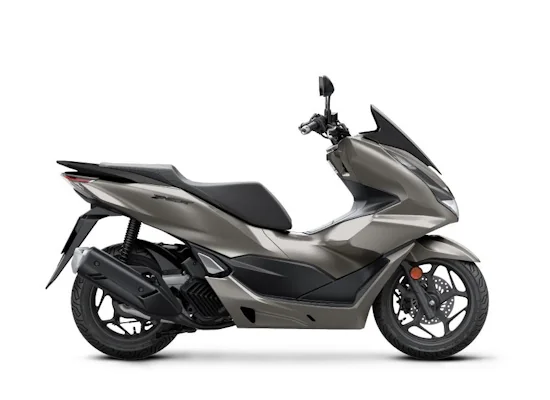
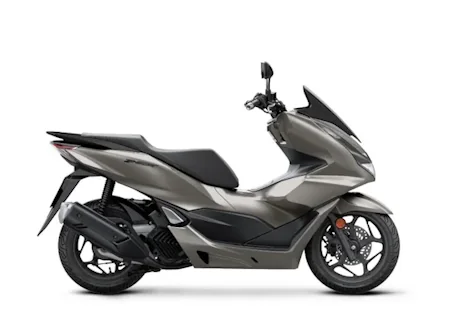
vehicle img resizing

diff --git a/final/scoots/styles/base.css b/final/scoots/styles/base.css
@@ -879,10 +879,11 @@ main {
 }
 
 #vehicle-cards section img {
+    margin: 0 auto;
     /* border: .25rem solid transparent; */
     border-radius: var(--radius-corner);
     width: 100%;
-    max-width: 500px;
+    max-width: 450px;
     background-color: var(--fill-main);
     transition: var(--transition-time);
 }
